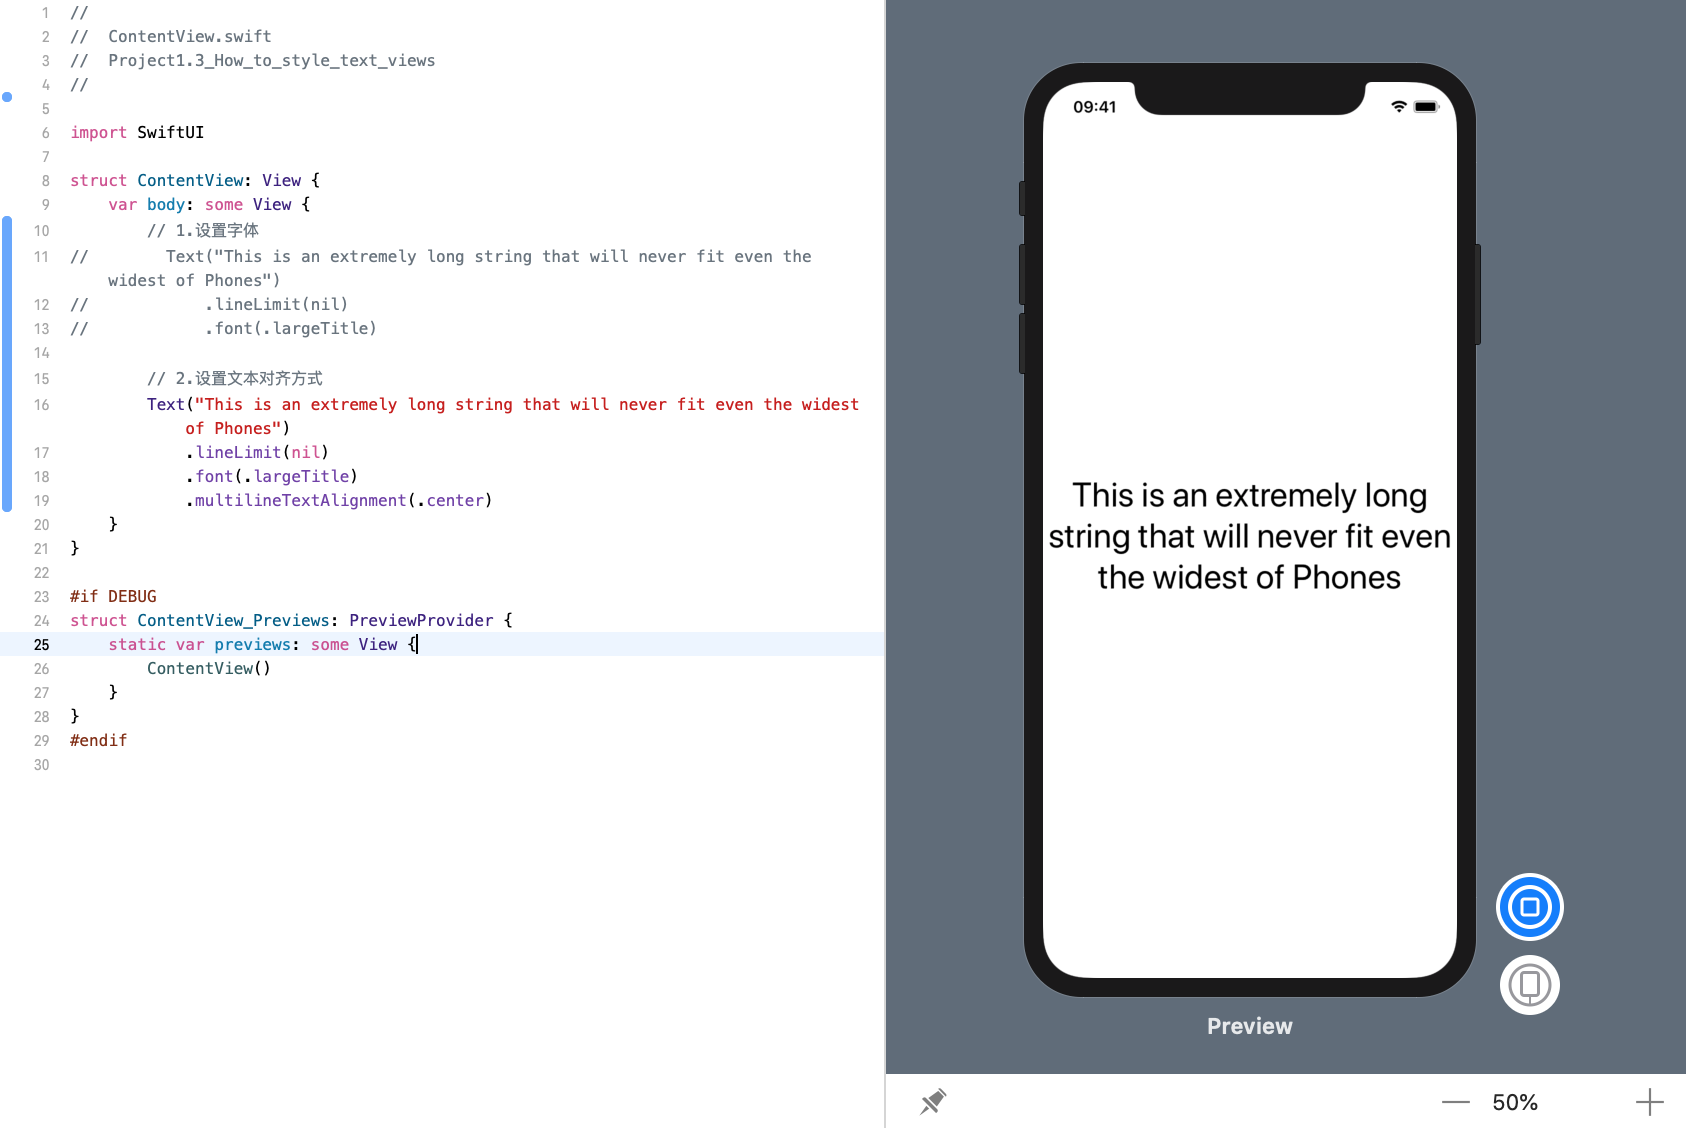
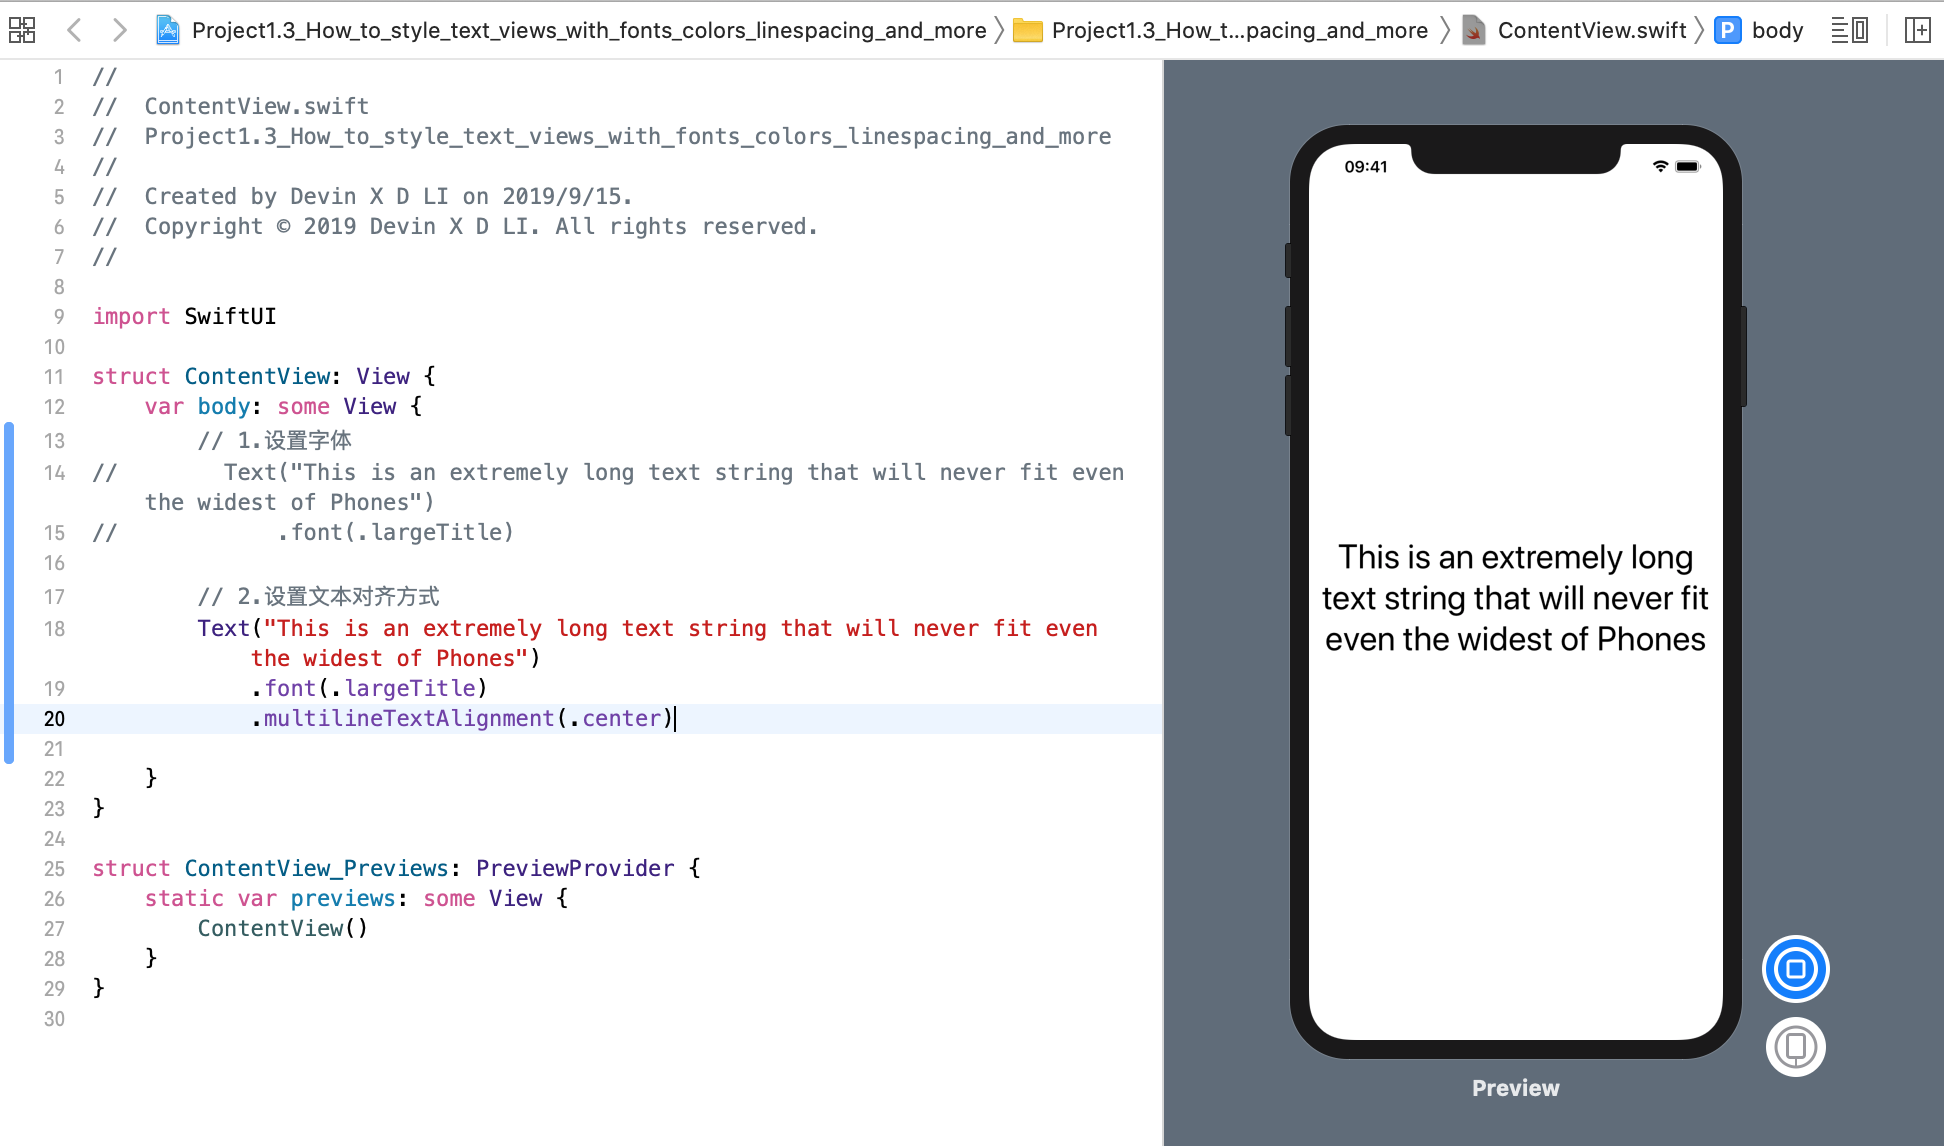
Update Project1.3

Changed region(s): [[0.0, 0.0, 1.0, 1.0], [0.0308, 0.7447, 0.3393, 0.8378], [0.4318, 0.2172, 0.4626, 0.2482]]

diff --git a/content/post/SwiftUI/1-Text_And_Image/1.3_如何使用字体颜色行距等设置文本视图的样式/index.md b/content/post/SwiftUI/1-Text_And_Image/1.3_如何使用字体颜色行距等设置文本视图的样式/index.md
@@ -29,16 +29,15 @@ projects: []
 ---
 
 <!-- more -->
-`Text` 不仅在外观方面可以让我们进行可预测的广泛控制，而且它们还可以与 `Dynamic Type` 等苹果的核心技术无缝协作。
+`Text` 不仅在外观方面可以让我们进行可预测的广泛控制，而且它们还可以与 `Dynamic Type` 等 Apple 的核心技术无缝协作。
 
 ### 1. 设置字体
 默认情况下，文本视图有一个 `Body` 动态类型样式，但是我们可以通过以下方式调用 `.font()`，从其它 _sizes_ 和 _weights_ 进行选择:
 ```swift
 struct ContentView: View {
     var body: some View {
-        // 1.设置字体
-        Text("This is an extremely long string that will never fit even the widest of Phones")
-            .lineLimit(nil)
+        // 1. 设置字体
+        Text("This is an extremely long text string that will never fit even the widest of Phones")
             .font(.largeTitle)
     }
 }
@@ -54,7 +53,6 @@ struct ContentView: View {
     var body: some View {
         // 2.设置文本对齐方式
         Text("This is an extremely long string that will never fit even the widest of Phones")
-            .lineLimit(nil)
             .font(.largeTitle)
             .multilineTextAlignment(.center)
     }
@@ -70,7 +68,7 @@ struct ContentView: View {
     var body: some View {
         // 3. 设置字体颜色
         Text("The best laid plans")
-            .foregroundColor(Color.red)
+            .foregroundColor(.red)
     }
 }
 ```
@@ -84,7 +82,7 @@ struct ContentView: View {
     var body: some View {
         // 4. 设置背景颜色
         Text("The best laid plans")
-            .foregroundColor(Color.red)
+            .foregroundColor(.red)
             .background(Color.yellow)
     }
 }
